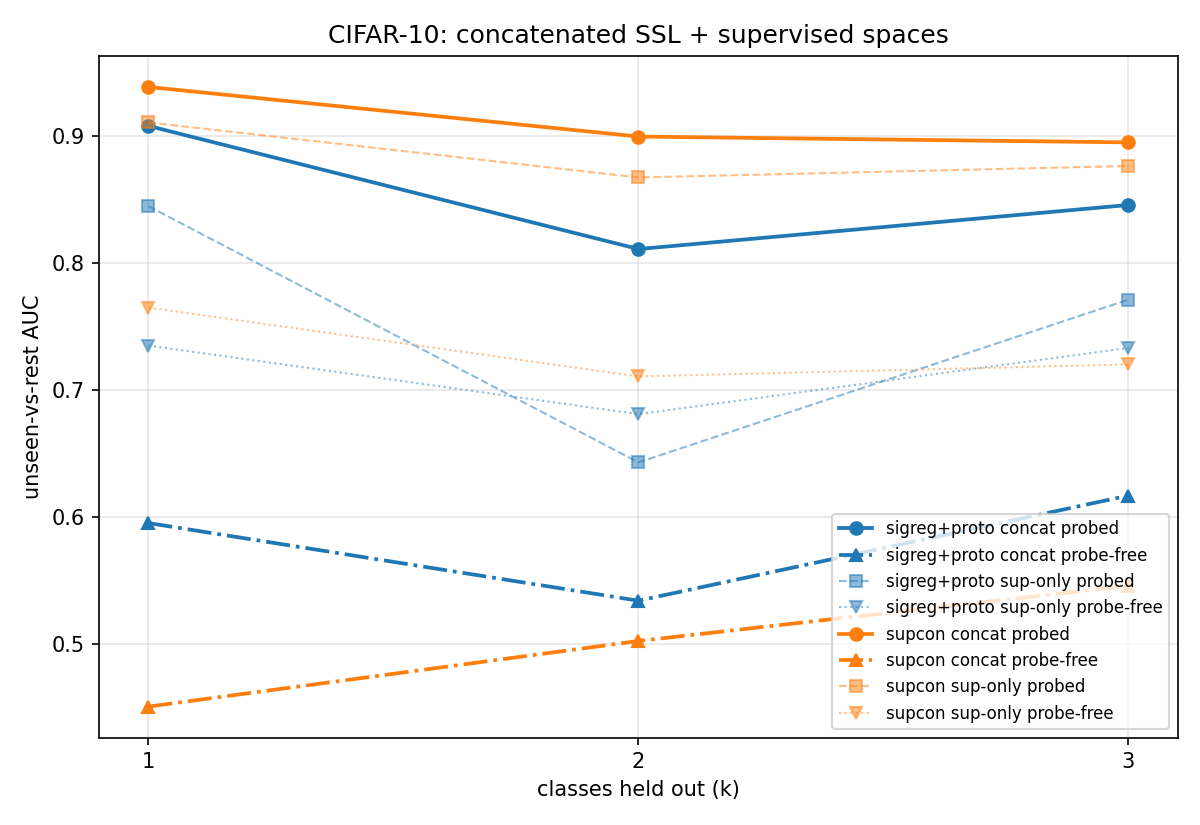
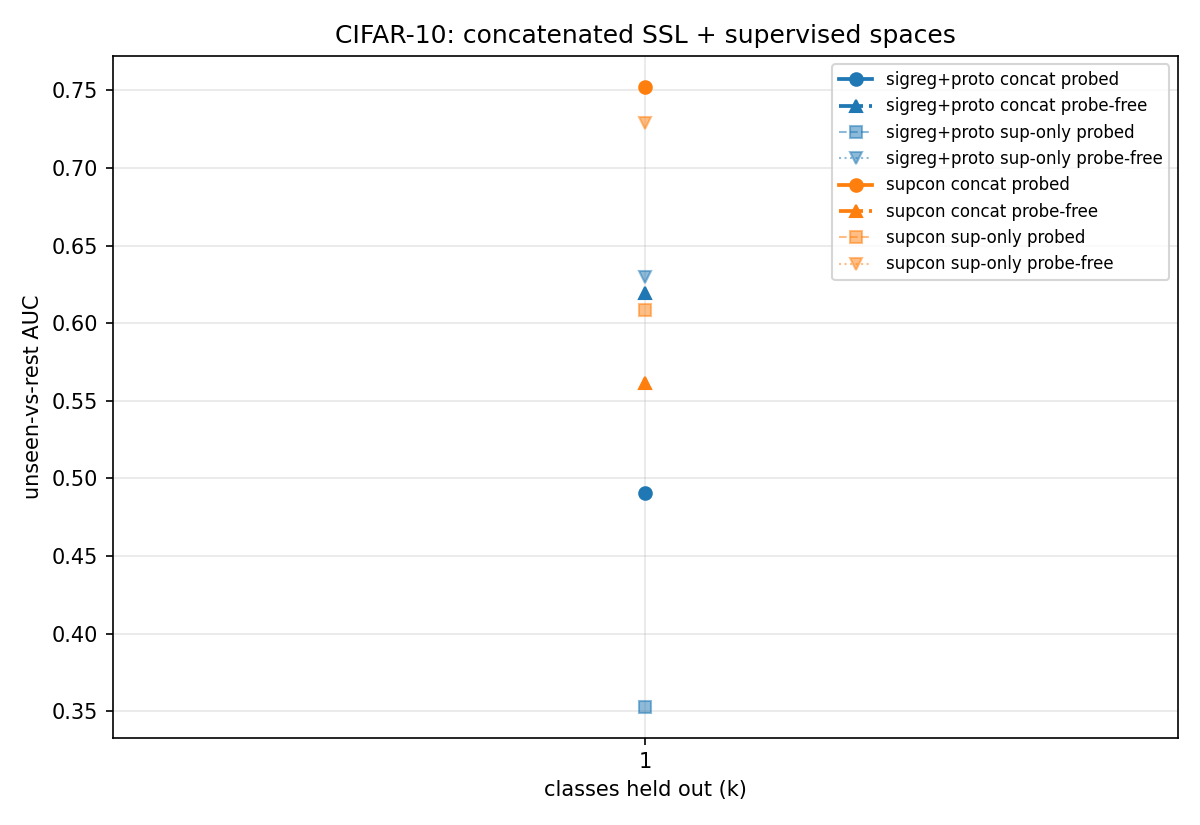
Equal-dim concat (16+16) and SSL-objective comparison
22_concat.py gains --ssl-obj sigreg|simclr and --ssl-dim.  At halved
total width the concat still beats both parts nearly everywhere -- the
synergy is complementarity, not dimensions.  SimCLR gives stronger
parts and slightly higher concat probed AUC; SIGReg-SSL is the more
complementary partner (+6-8 pt synergies) and much better for
probe-free/Mahalanobis scoring (0.70-0.76 vs 0.52-0.67).

diff --git a/experiments/22_concat.py b/experiments/22_concat.py
@@ -39,13 +39,13 @@ from supersig.data import (
 from supersig.models import CIFARResNetBackbone
 from supersig.losses import make_anchors
 from supersig.train import (
-    train_sigreg_ssl, train_supcon, train_sigreg_hybrid, collect_embeddings,
-    REP_WEIGHT,
+    train_sigreg_ssl, train_simclr, train_supcon, train_sigreg_hybrid,
+    collect_embeddings, REP_WEIGHT,
 )
 from supersig.metrics import mahalanobis_novelty
 
 SUP_DIM = 16
-SSL_DIM = 64
+SSL_DIM = 64          # overridden by --ssl-dim
 N_CLASSES = 10
 PAIR_DIST = 5.0
 DATASET = "cifar10"
@@ -103,7 +103,12 @@ def main():
     ap.add_argument("--ks", default="1,2,3")
     ap.add_argument("--sigreg-weight", type=float, default=20.0)
     ap.add_argument("--n-slices", type=int, default=256)
+    ap.add_argument("--ssl-obj", choices=["sigreg", "simclr"], default="sigreg")
+    ap.add_argument("--ssl-dim", type=int, default=64)
+    ap.add_argument("--out-tag", default="")
     args = ap.parse_args()
+    global SSL_DIM
+    SSL_DIM = args.ssl_dim
     ssl_ep = args.ssl_epochs or (2 if args.quick else 20)
     head_ep = args.head_epochs or (1 if args.quick else 10)
     ks = [int(x) for x in args.ks.split(",")]
@@ -118,13 +123,17 @@ def main():
     for k in ks:
         holdouts = set(HOLDOUT_SETS[k])
         seen = [c for c in range(N_CLASSES) if c not in holdouts]
-        print(f"\n===== k={k}: SSL trunk (sigreg-ssl, no {sorted(holdouts)}) =====")
+        print(f"\n===== k={k}: SSL trunk ({args.ssl_obj}, {SSL_DIM}d, no {sorted(holdouts)}) =====")
         torch.manual_seed(args.seed); np.random.seed(args.seed)
         trunk = CIFARResNetBackbone(SSL_DIM, arch=args.arch,
                                     pretrain=args.pretrain).to(DEVICE)
-        train_sigreg_ssl(trunk, cifar_two_view_loader(
-            quick=args.quick, labeled=False, holdout=holdouts,
-            limit=args.limit, dataset=DATASET), ssl_ep)
+        ssl_loader = cifar_two_view_loader(quick=args.quick, labeled=False,
+                                           holdout=holdouts, limit=args.limit,
+                                           dataset=DATASET)
+        if args.ssl_obj == "simclr":
+            train_simclr(trunk, ssl_loader, ssl_ep)
+        else:
+            train_sigreg_ssl(trunk, ssl_loader, ssl_ep)
         tr_ssl, tr_lab = collect_embeddings(trunk, train_eval_loader)
         te_ssl, te_lab = collect_embeddings(trunk, test_loader)
         tr_pos = np.isin(tr_lab, list(holdouts)).astype(int)
@@ -194,7 +203,7 @@ def main():
                   f"concat={r['cat_free']:.4f}  (concat mahal-pc={r['cat_mahal']:.4f})")
             print(f"  concat eig min/med/max={eigs[0]:.3f}/{eigs[1]:.3f}/{eigs[2]:.3f}")
 
-    print("\n===== CONCAT SUMMARY =====")
+    print(f"\n===== CONCAT SUMMARY (ssl={args.ssl_obj}, {SSL_DIM}d) =====")
     print(f"{'k':>3}{'method':>14}{'probed s/ssl/cat':>26}{'free s/ssl/cat':>26}")
     for k in ks:
         for m in methods:
@@ -216,8 +225,8 @@ def main():
     plt.xlabel("classes held out (k)"); plt.ylabel("unseen-vs-rest AUC")
     plt.title("CIFAR-10: concatenated SSL + supervised spaces")
     plt.legend(fontsize=8); plt.grid(alpha=0.3); plt.tight_layout()
-    plt.savefig(plot_path("novelty_concat_cifar10.png"), dpi=150); plt.close()
-    print(f"\n  saved {plot_path('novelty_concat_cifar10.png')}")
+    plt.savefig(plot_path(f"novelty_concat_cifar10{args.out_tag}.png"), dpi=150); plt.close()
+    print(f"\n  saved {plot_path(f'novelty_concat_cifar10{args.out_tag}.png')}")
     print("Done.")
 
 

diff --git a/README.md b/README.md
@@ -480,6 +480,29 @@ Caveat: probes are linear; some of the concat gain is simply more usable
 dimensions — but the parts were probed at their own widths, so the synergy is
 real.
 
+**Equal-dimension variant (16 + 16 = 32d) and SSL-objective comparison**
+(`--ssl-obj sigreg|simclr --ssl-dim 16`), concat probed / (synergy over best
+part) / concat-Mahalanobis:
+
+| k | branch | SIGReg-SSL trunk | SimCLR trunk |
+|--:|--------|------------------|--------------|
+| 1 | sigreg | 0.8976 (+6.7) / 0.70 | 0.9013 (+1.1) / 0.67 |
+| 1 | supcon | 0.9205 (+4.7) / 0.69 | 0.9266 (+0.5) / 0.52 |
+| 2 | sigreg | 0.8165 (+8.4) / 0.71 | 0.8287 (+2.5) / 0.66 |
+| 2 | supcon | 0.8935 (+2.1) / 0.67 | 0.8937 (+3.6) / 0.57 |
+| 3 | sigreg | 0.7732 (+6.2) / 0.74 | 0.8002 (+5.7) / 0.64 |
+| 3 | supcon | 0.8755 (+0.0) / 0.76 | 0.8905 (+1.0) / 0.61 |
+
+At equal (halved) width the concat still beats both parts almost everywhere —
+the synergy is complementarity, not dimension count (the 32d concat is within
+1–2 points of the 80d version except SupCon k=1).  The two SSL objectives play
+different roles: **SimCLR** yields the stronger individual spaces (its init
+lifts the supervised branch: 0.8899 vs 0.8303 at k=1) and slightly higher
+absolute concat probed AUC in every cell, while **SIGReg-SSL** is the more
+complementary partner (synergies up to +8.4 vs +1–3) and clearly better for
+probe-free/Mahalanobis scoring (0.70–0.76 vs 0.52–0.67) — its globally
+Gaussian space supports density corrections that SimCLR's does not.
+
 5× longer stage 1 (100 SSL epochs) does **not** close the probed gap — all
 probed/probe-free changes are within single-seed noise (SIGReg probed
 0.81/0.72/0.73; SupCon actually drifts down) — so the residual 3–6 points vs